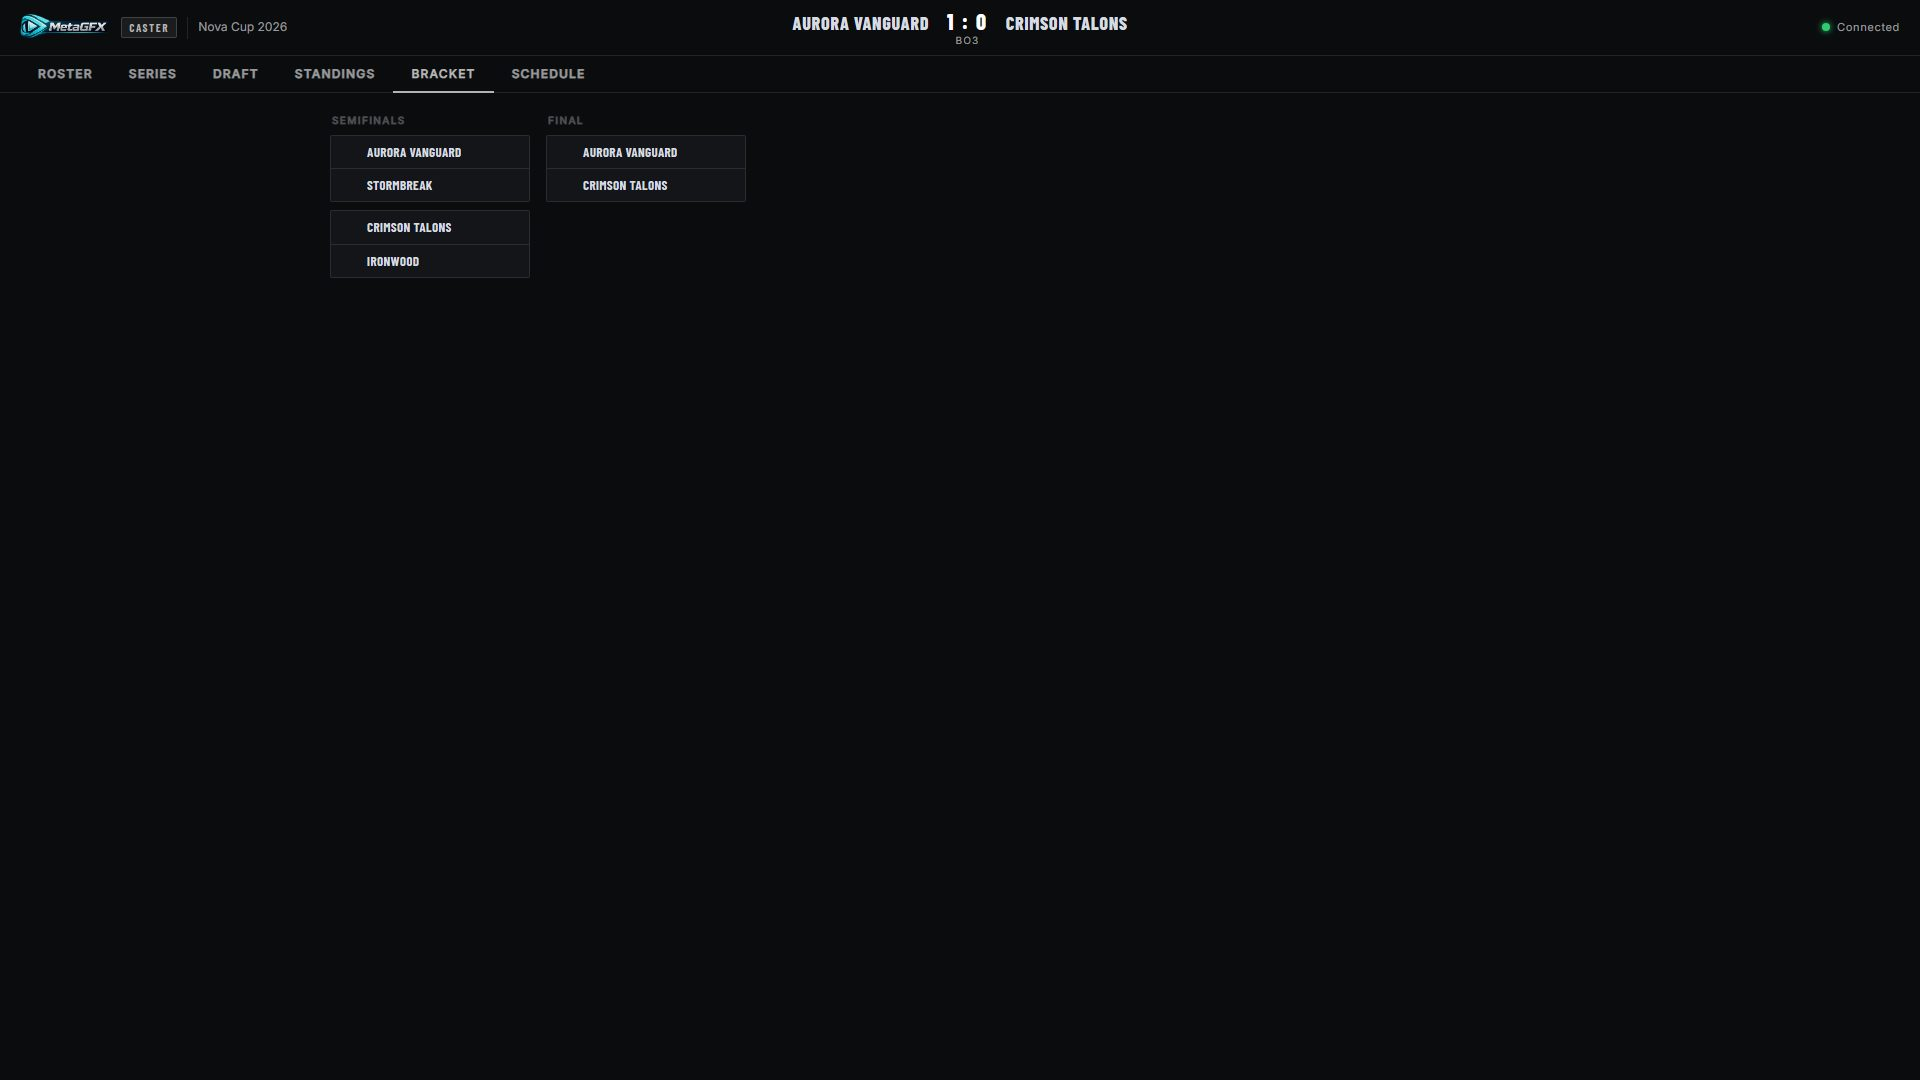
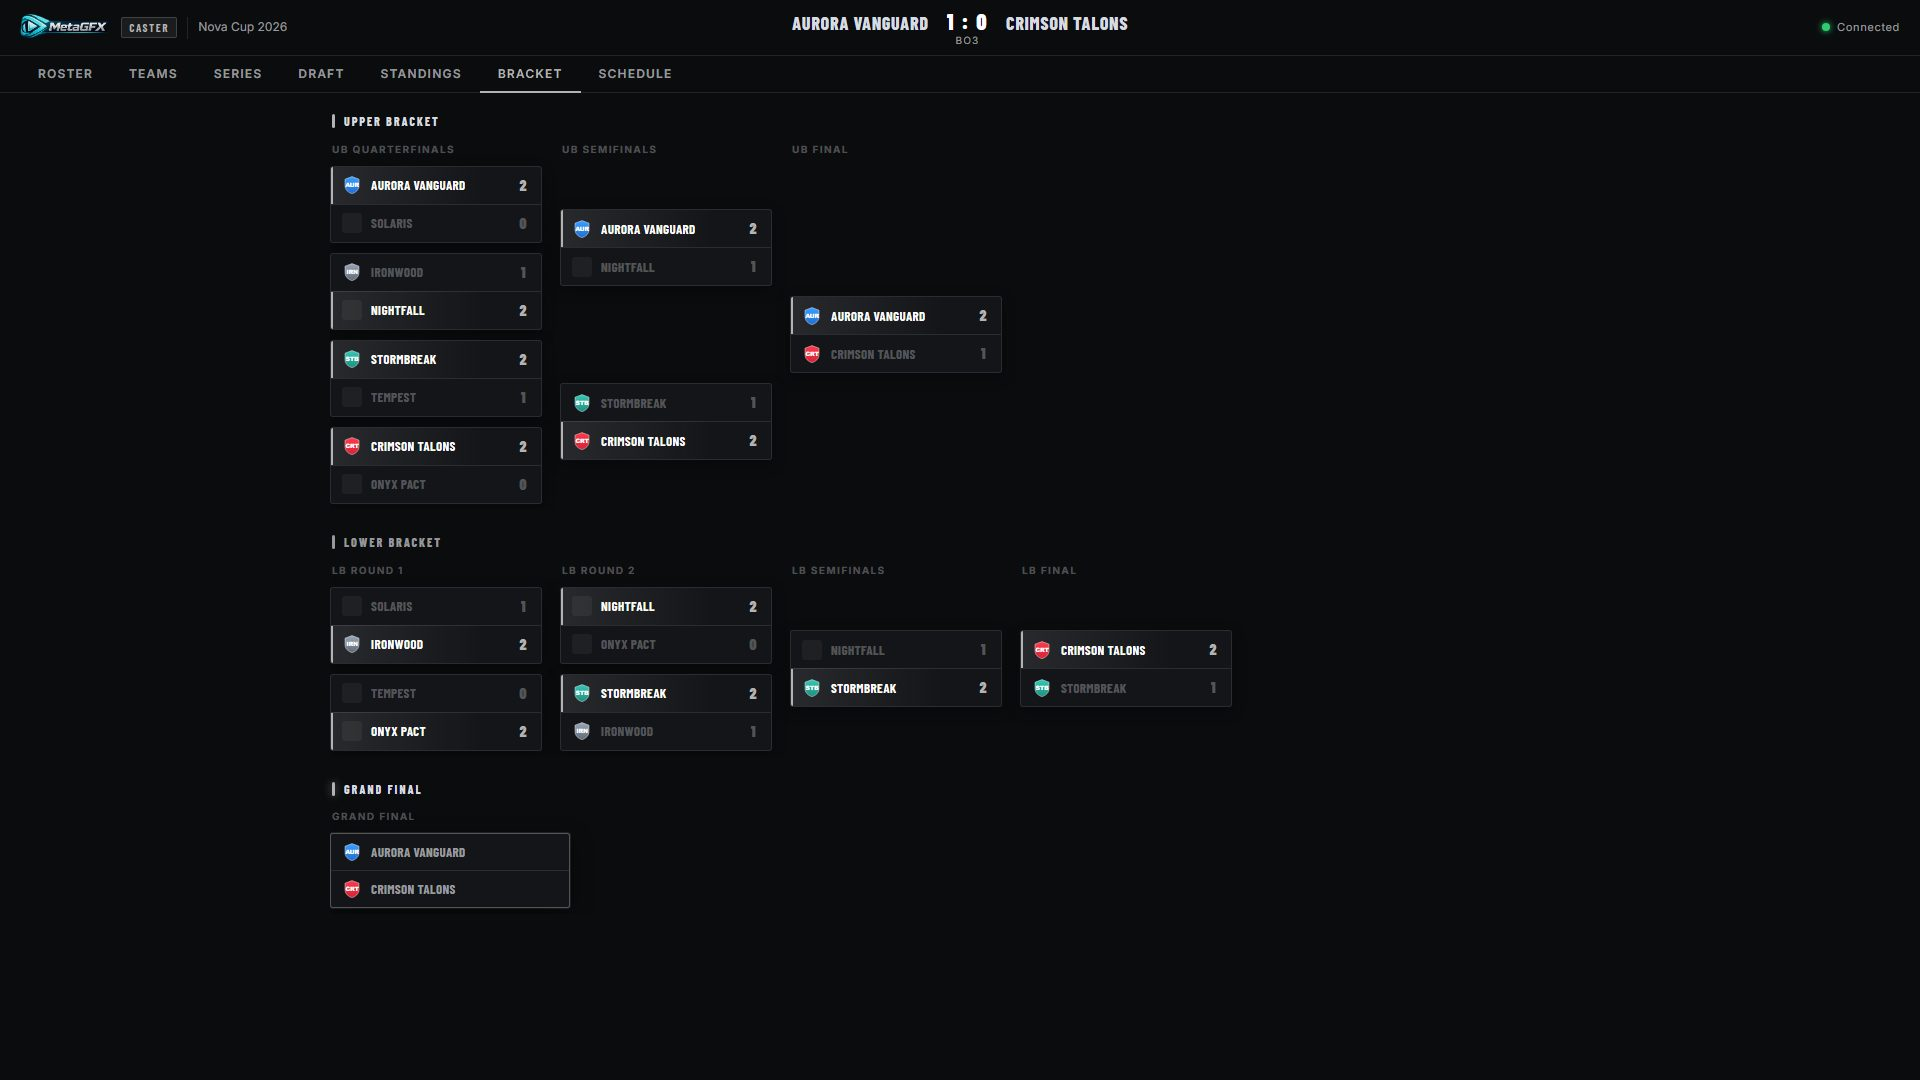
docs(caster): refresh wiki + README for #10 (Teams tab, countdown, standings/bracket)
Re-shot all caster-view screenshots against the demo dataset (7-tab
nav) and added the two new figures:
- caster-teams.jpg — new Teams tab (full competing-team pool + subs,
  ON AIR flags)
- caster-countdown.jpg — time-to-live banner (pre-show example)
Restyled Standings + Bracket reshot (bracket now shows the populated
double-elim with scores/winners/logos across UB/LB/Grand Final).
Updated caster-view.md (Teams + countdown sections, Standings/Bracket
copy) and the README caster tab list + hero image.

diff --git a/docs/caster-view.md b/docs/caster-view.md
@@ -1,10 +1,16 @@
 # Caster view
 
-A read-only dashboard for casters and analysts — rosters, the live draft, series history, standings, bracket and schedule — all in one page that updates in real time. It needs no account, just the graphics token, so you can share it with on-air talent who shouldn't touch the controls.
+A read-only dashboard for casters and analysts — team rosters, the live draft, series history, group standings, the playoff bracket and the schedule — all in one page that updates in real time. It needs no account, just the graphics token, so you can share it with on-air talent who shouldn't touch the controls.
 
 Open at **`/caster?token=XXXX`** (grab the full link from **Settings → Output URLs**).
 
 ![Caster view — Roster tab](img/caster-roster.jpg)
+
+### Time-to-live countdown
+
+When a [pre-show](pre-show.md) or [break](break-screen.md) countdown is running on air, a banner appears under the header — on **every tab** — so casters always know the time to air, or the time until the broadcast is back from a break:
+
+![Caster view — countdown banner](img/caster-countdown.jpg)
 
 Click any player to expand full prep detail — Riot ID, this-game draft pick with KDA/CS/KP stats, and their champion pool:
 
@@ -14,12 +20,19 @@ Click any player to expand full prep detail — Riot ID, this-game draft pick wi
 
 | Tab | What's there |
 |---|---|
-| **Roster** | Both teams' players with roles, ranks, Riot IDs and champion pools — with **op.gg** deep links for prep. |
+| **Roster** | The two teams on air, with each player's role, rank, Riot ID and champion pool — plus **op.gg** deep links for prep. |
+| **Teams** | Every team in the tournament — not just the two on air — with full rosters and substitutes, so casters can pull up any team on demand. |
 | **Series** | The current series: score, format, per-game results and draft history (incl. the **fearless** champion pool used so far). |
 | **Draft** | A live pick/ban board mirroring the [draft](draft.md) as it happens. |
-| **Standings** | Group-stage standings. |
-| **Bracket** | The playoff bracket. |
+| **Standings** | Group-stage standings, with advancing positions and the qualification cut-off marked. |
+| **Bracket** | The playoff bracket — single- or double-elimination, with scores and winners. |
 | **Schedule** | The broadcast schedule. |
+
+### Teams
+
+The **Teams** tab lists the whole competing-team pool with rosters and subs — handy for previewing an upcoming opponent who isn't on air yet. The two teams currently on broadcast are flagged **ON AIR**:
+
+![Caster view — Teams tab](img/caster-teams.jpg)
 
 ### Live draft
 
@@ -33,7 +46,11 @@ The remaining tabs give the casters the full tournament context without leaving 
 
 ![Caster view — Series tab](img/caster-series.jpg)
 
+Standings show each group with numbered positions; advancing slots are highlighted and a cut-off line marks where qualification ends:
+
 ![Caster view — Standings tab](img/caster-standings.jpg)
+
+The bracket splits into **Upper / Lower / Grand Final** for double-elimination, with team logos, scores and the winner of each match highlighted:
 
 ![Caster view — Bracket tab](img/caster-bracket.jpg)
 

diff --git a/README.md b/README.md
@@ -136,7 +136,7 @@ npm run dev
 |---|---|---|---|
 | **Control panel** | `/control` | admin | Full tournament setup, match management, all graphic control, settings. |
 | **Operator view** | `/operator` | operator/admin | Streamlined live production: graphic toggles + ctrl-bar, score/series tracker, lower-third builder, drag-reorderable panels, on-air indicator. |
-| **Caster view** | `/caster?token=XXXX` | token | Read-only caster dashboard: roster, series, live draft, standings, bracket, schedule. |
+| **Caster view** | `/caster?token=XXXX` | token | Read-only caster dashboard: roster, teams, series, live draft, standings, bracket, schedule. |
 
 <table>
   <tr>
